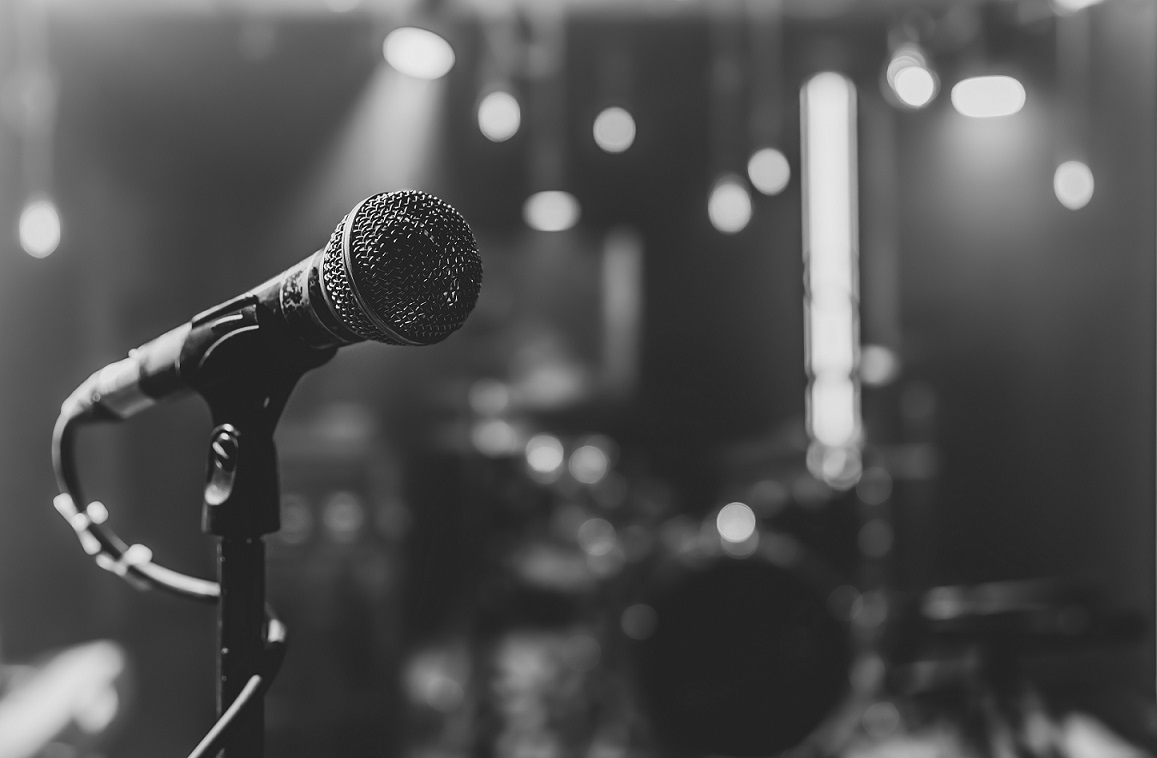
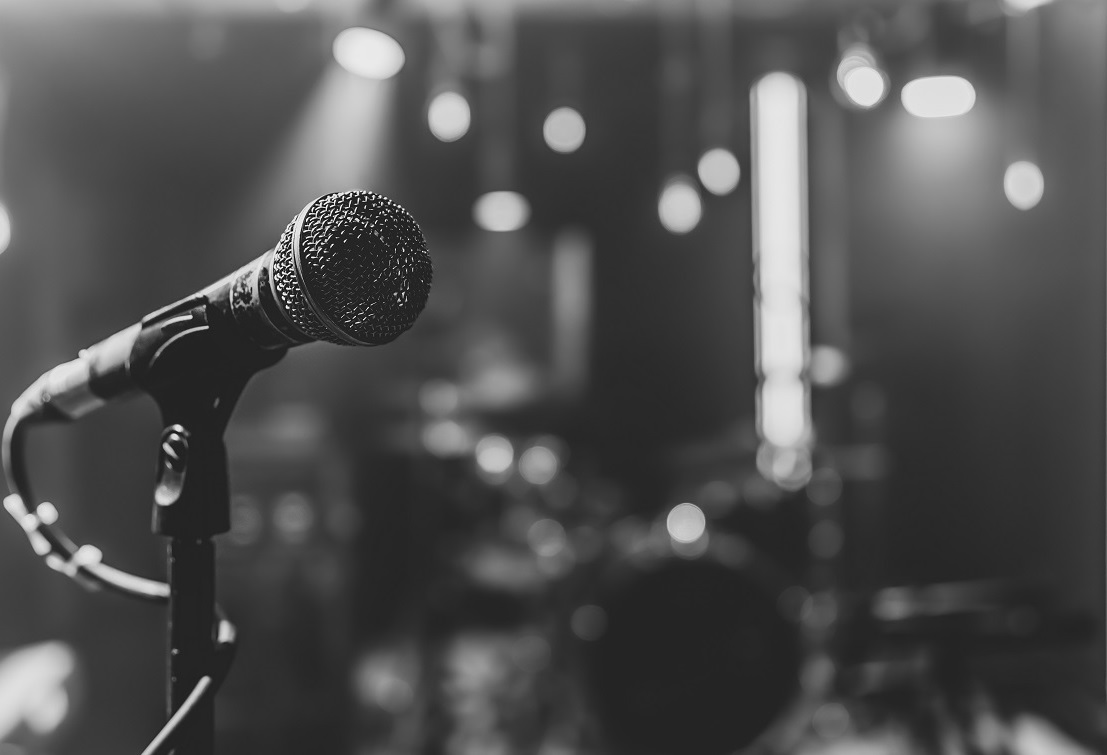
imagem microfone menor
mais a esquerda pra ficar bom pra celular

diff --git a/style.css b/style.css
@@ -78,7 +78,7 @@ header {
     background-image: url('images/fundomicrofone.jpg');
     background-attachment: fixed;
     background-size: cover;
-    background-position: left center;
+    background-position: left;
     background-repeat: no-repeat;
     height: auto;  
     
